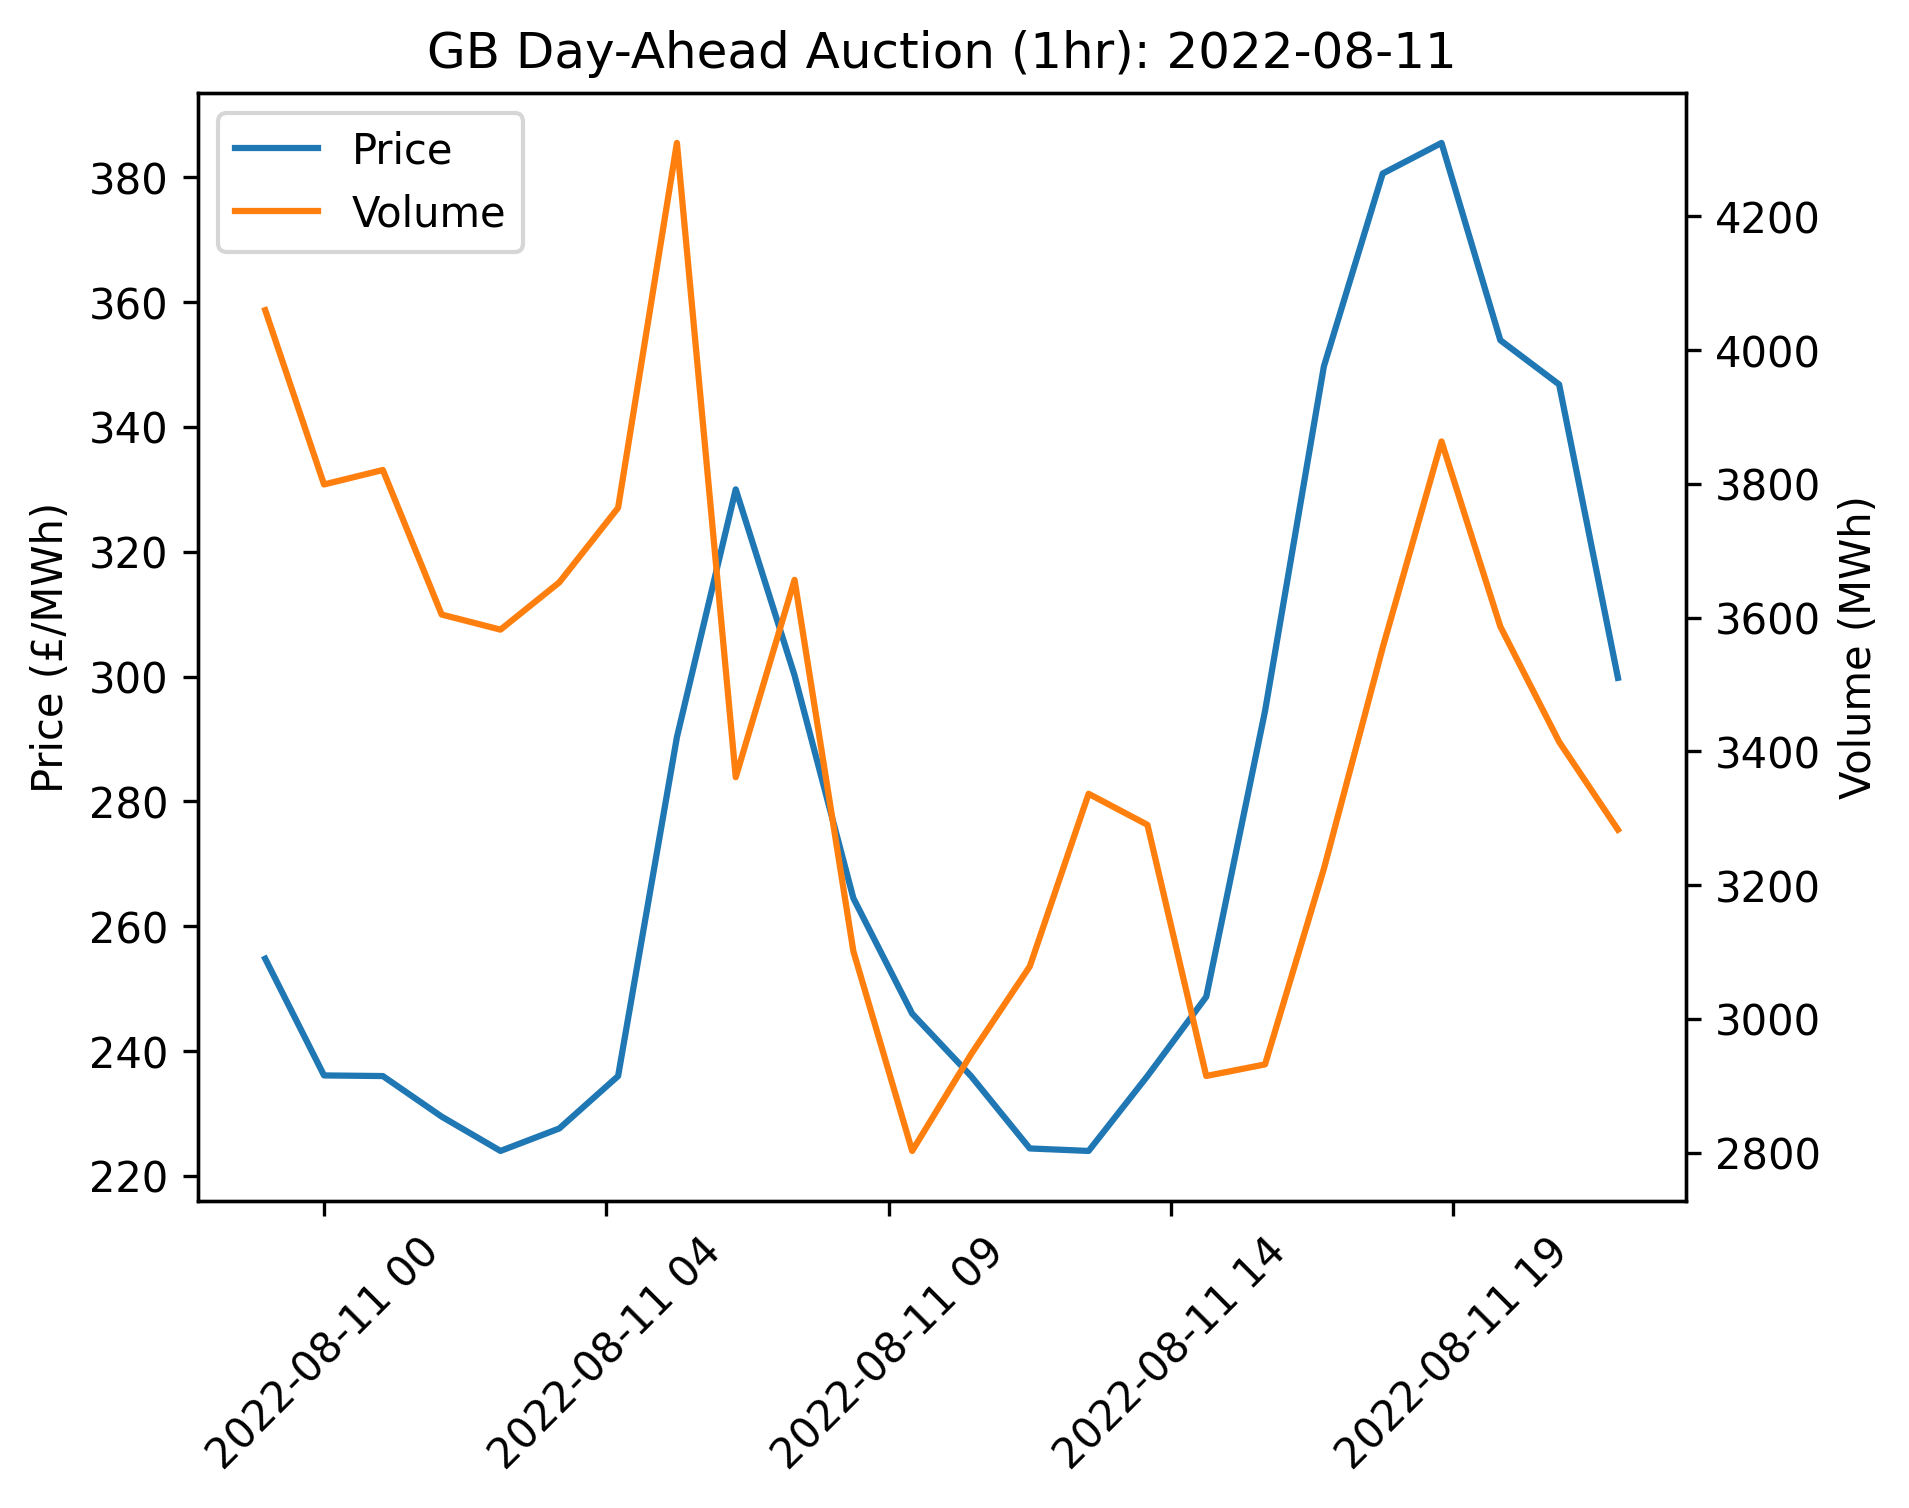
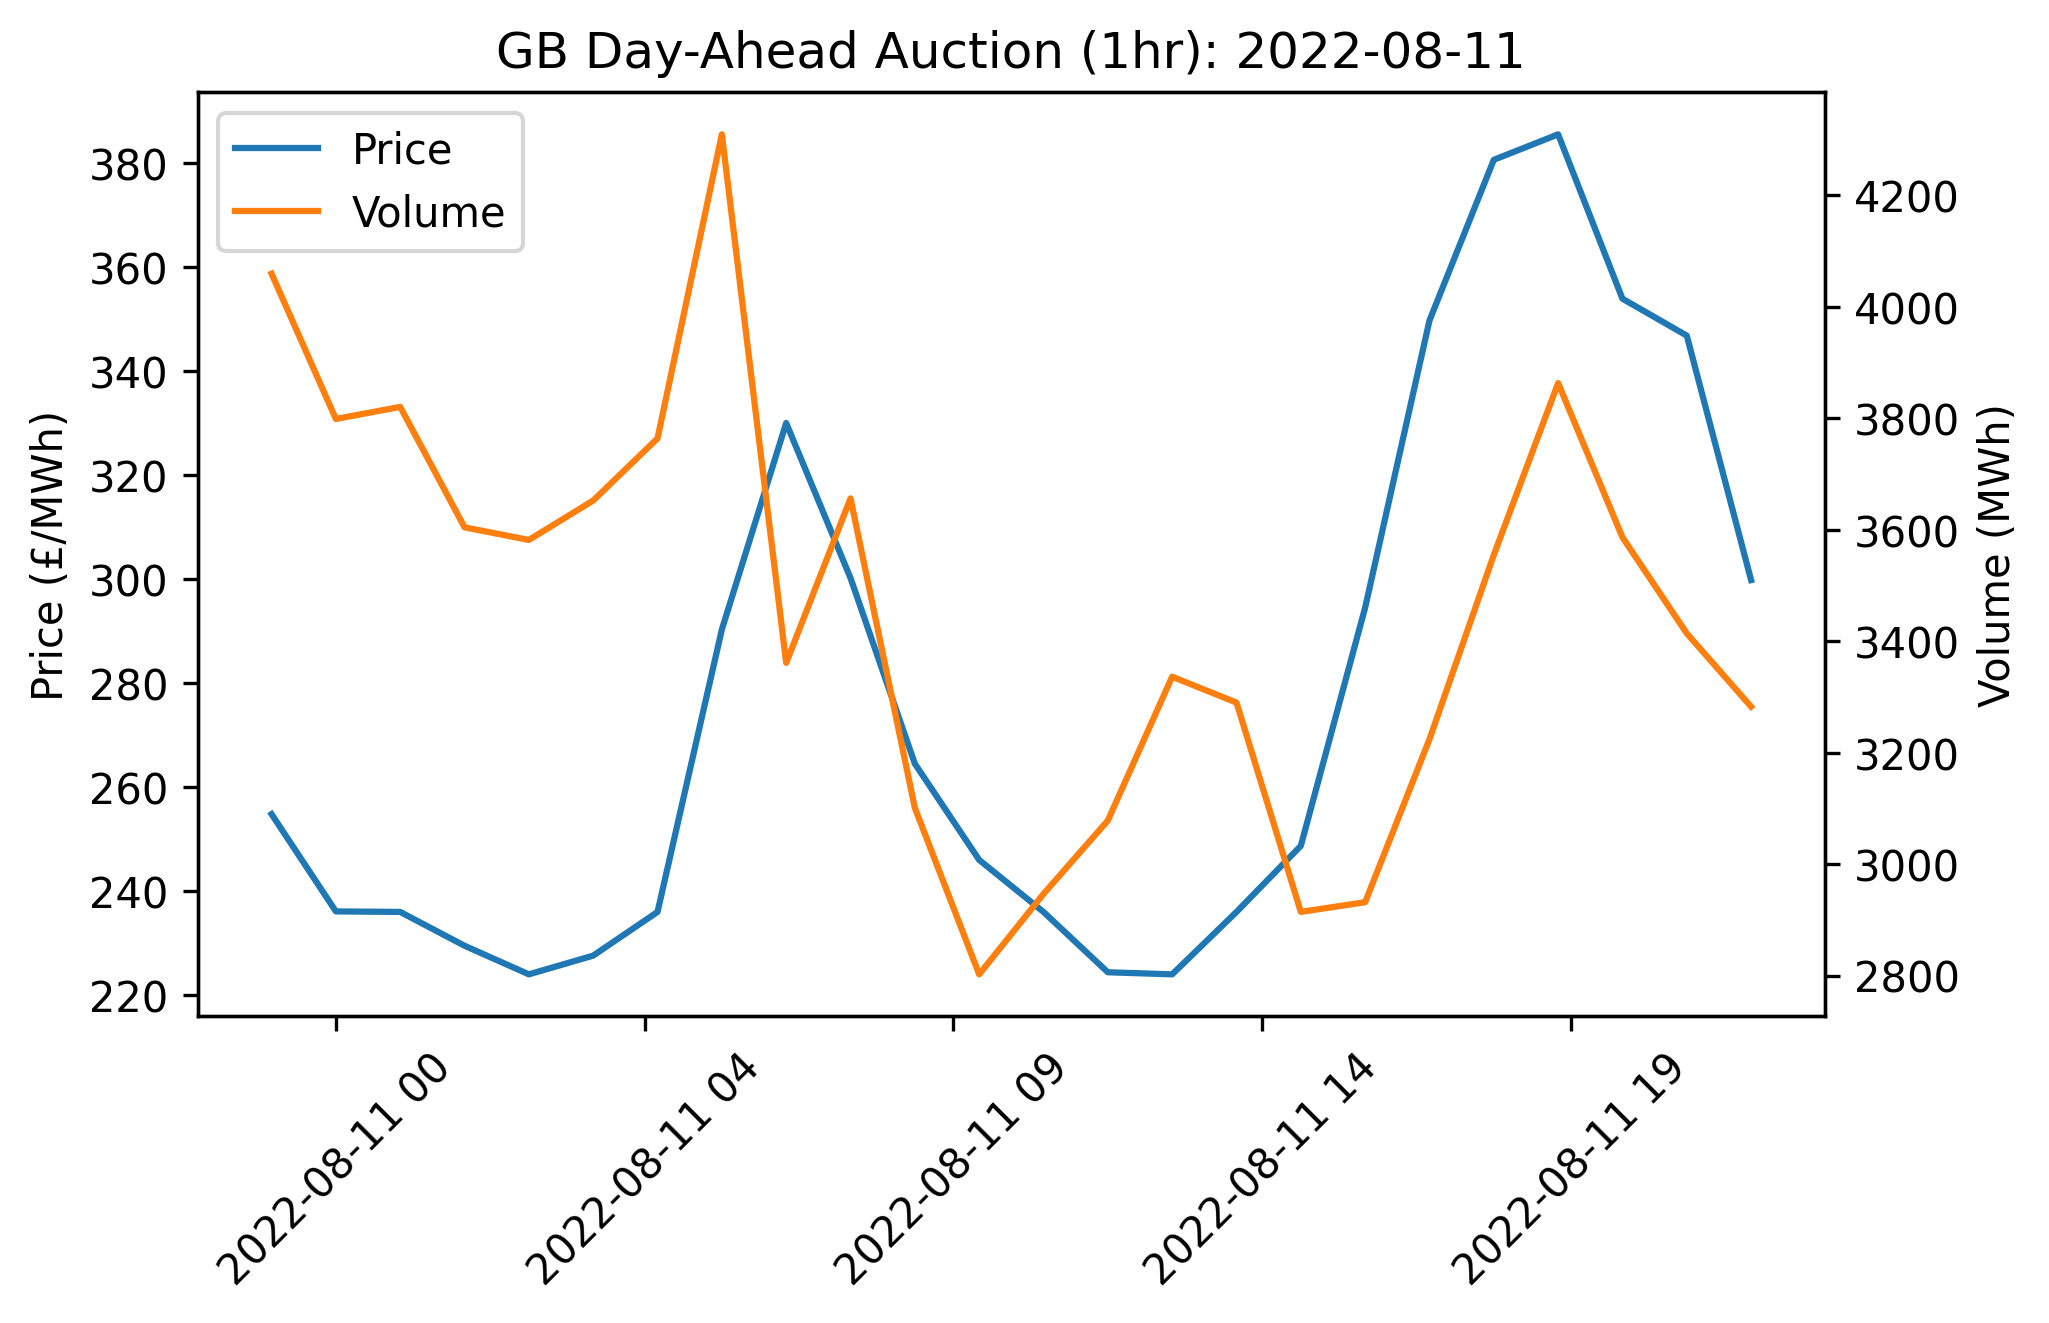
Reduce size of static plot

diff --git a/plot.py b/plot.py
@@ -5,7 +5,7 @@ import matplotlib.dates as mdates
 
 
 def plot_day_ahead_auction_results(results: pd.DataFrame, directory: Path, market_area: str):
-    fig, ax0 = plt.subplots()
+    fig, ax0 = plt.subplots(figsize=(7, 4))
     ax1 = ax0.twinx()
 
     ax0.plot(results.index, results.price, label="Price", color="C0")

diff --git a/request.py b/request.py
@@ -7,7 +7,6 @@ import pandas as pd
 
 def _make_request(base_url: str, **kwargs) -> str:
     url = base_url + "&".join([f"{k}={v}" for k, v in kwargs.items()])
-    print(url)
     with requests.get(url) as response:
         html = response.text
     return html

diff --git a/README.md b/README.md
@@ -3,7 +3,7 @@
 
 Last updated: 2022-08-10 21:07
 
-![Long-term average](./docs/day_ahead_auction.png)
+![results](./docs/day_ahead_auction.png)
 
 ## Outstanding Tasks
 - [ ] Automate retrieval of data
